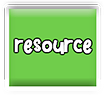
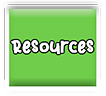
fix resources screen

Changed region(s): [[0.0849, 0.375, 0.9057, 0.5938]]

diff --git a/app.js b/app.js
@@ -170,7 +170,7 @@
 			["NorWest Co-op Community Health","https://norwestcoop.ca/",halfWidth,177],
 			["Aurora Family Therapy Centre","http://www.aurorafamilytherapy.com/newcomer.html",halfWidth,220],
 			["Macdonald Youth Services","https://www.mys.ca/services/youth-crisis-services",halfWidth,265],
-			["Immigrant and Refugee Community Organization of Manitoba (IRCOM)","https://www.ircom.ca/",halfWidth,297],
+			["Immigrant and Refugee Community Organization of Manitoba (IRCOM)","https://www.ircom.ca/",halfWidth,304],
 			["New Journey Housing","https://www.newjourneyhousing.com/",halfWidth,370],
 			["Klinic Community Health","http://klinic.mb.ca/",halfWidth,414],
 			["Kids Help Phone","https://kidshelpphone.ca/",halfWidth,458],
@@ -998,7 +998,7 @@
 
 
 				c.drawImage(questionBG,1,7);
-				c.drawImage(resourceHdr,138,30);
+				c.drawImage(resourceHdr,138,34);
 				c.drawImage(okButton,342,488);
 
 				activeURLButtons.forEach(function(urlButtonObject,index){
